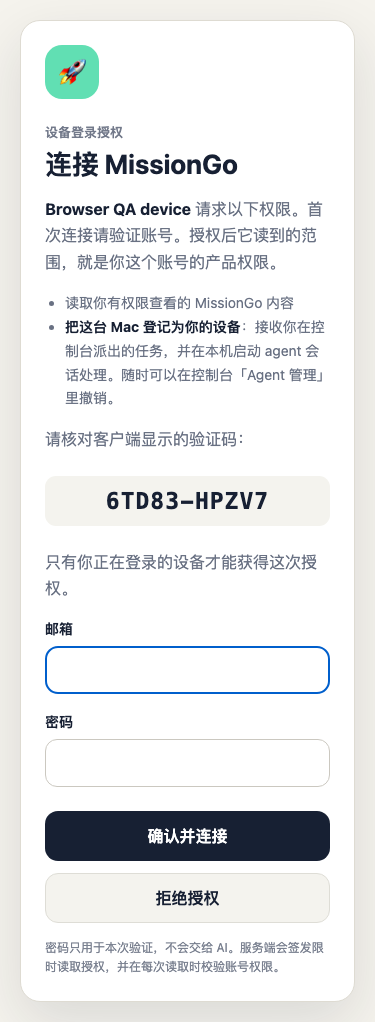
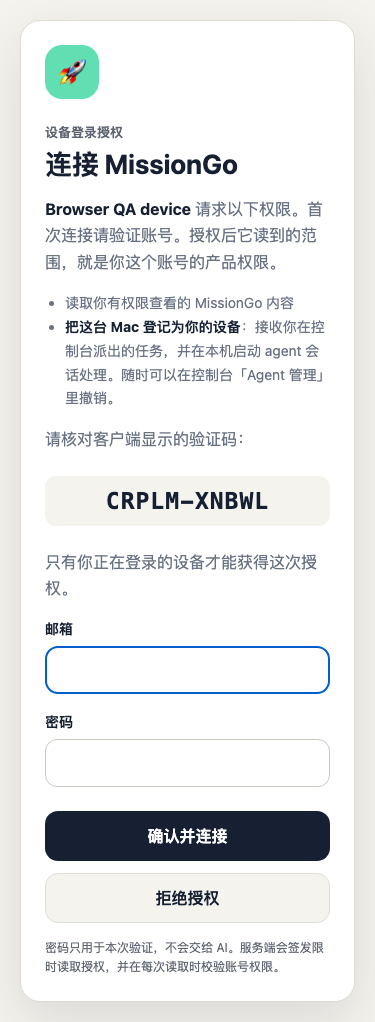
fix: AND-275 meet OAuth page text contrast requirements

Changed region(s): [[0.528, 0.4853, 0.704, 0.5157], [0.2933, 0.4853, 0.4693, 0.5157], [0.176, 0.1213, 0.3227, 0.1517]]

diff --git a/services/server/src/app.ts b/services/server/src/app.ts
@@ -911,7 +911,7 @@ export function buildApp(options: BuildAppOptions = {}): FastifyInstance {
     app.get("/oauth/login.css", async (_request, reply) => reply
       .header("cache-control", "public, max-age=3600")
       .type("text/css; charset=utf-8")
-      .send(`:root{--surface-sunken:#f4f3ee;--ink:#172033;--line:#deddd6;--text-2xl:23px;--radius-md:11px}*{box-sizing:border-box}body{margin:0;min-height:100vh;display:grid;place-items:center;background:#f5f3ed;color:#172033;font-family:system-ui,-apple-system,"PingFang SC",sans-serif;padding:20px}.card{width:min(100%,440px);background:#fff;border:1px solid #dedbd2;border-radius:24px;padding:32px;box-shadow:0 20px 55px rgba(23,32,51,.12)}.mark{display:grid;place-items:center;width:54px;height:54px;border-radius:17px;background:#61dfb3;font-size:27px}.eyebrow{margin:24px 0 8px;color:#72798a;font-size:13px;font-weight:700}.title{margin:0;font-size:30px;line-height:1.15}.copy{color:#697183;line-height:1.65}.scopes{margin:0 0 4px;padding-left:20px;color:#697183;line-height:1.7;font-size:14px}.scopes strong{color:#172033}.client{font-weight:700;color:#172033}.error{padding:11px 13px;border-radius:12px;background:#fff0f0;color:#ad2e2e;font-size:14px}label{display:block;margin:18px 0 7px;font-size:14px;font-weight:700}input{width:100%;height:48px;border:1px solid #cbc8c0;border-radius:12px;padding:0 13px;font:inherit}button{width:100%;height:50px;margin-top:24px;border:0;border-radius:13px;background:#172033;color:#fff;font:inherit;font-weight:750;cursor:pointer}.device-code{font:700 var(--text-2xl) ui-monospace,monospace;letter-spacing:1px;white-space:nowrap;text-align:center;padding:12px;border-radius:var(--radius-md);background:var(--surface-sunken)}button.secondary{background:var(--surface-sunken);color:var(--ink);border:1px solid var(--line);margin-top:12px}.note{margin:16px 0 0;color:#7a8190;font-size:12px;line-height:1.55}@media(max-width:520px){.card{padding:24px;border-radius:20px}.title{font-size:27px}}`));
+      .send(`:root{--muted-soft:#5f6570;--surface-sunken:#f4f3ee;--ink:#172033;--line:#deddd6;--text-2xl:23px;--radius-md:11px}*{box-sizing:border-box}body{margin:0;min-height:100vh;display:grid;place-items:center;background:#f5f3ed;color:#172033;font-family:system-ui,-apple-system,"PingFang SC",sans-serif;padding:20px}.card{width:min(100%,440px);background:#fff;border:1px solid #dedbd2;border-radius:24px;padding:32px;box-shadow:0 20px 55px rgba(23,32,51,.12)}.mark{display:grid;place-items:center;width:54px;height:54px;border-radius:17px;background:#61dfb3;font-size:27px}.eyebrow{margin:24px 0 8px;color:var(--muted-soft);font-size:13px;font-weight:700}.title{margin:0;font-size:30px;line-height:1.15}.copy{color:#697183;line-height:1.65}.scopes{margin:0 0 4px;padding-left:20px;color:#697183;line-height:1.7;font-size:14px}.scopes strong{color:#172033}.client{font-weight:700;color:#172033}.error{padding:11px 13px;border-radius:12px;background:#fff0f0;color:#ad2e2e;font-size:14px}label{display:block;margin:18px 0 7px;font-size:14px;font-weight:700}input{width:100%;height:48px;border:1px solid #cbc8c0;border-radius:12px;padding:0 13px;font:inherit}button{width:100%;height:50px;margin-top:24px;border:0;border-radius:13px;background:#172033;color:#fff;font:inherit;font-weight:750;cursor:pointer}.device-code{font:700 var(--text-2xl) ui-monospace,monospace;letter-spacing:1px;white-space:nowrap;text-align:center;padding:12px;border-radius:var(--radius-md);background:var(--surface-sunken)}button.secondary{background:var(--surface-sunken);color:var(--ink);border:1px solid var(--line);margin-top:12px}.note{margin:16px 0 0;color:var(--muted-soft);font-size:12px;line-height:1.55}@media(max-width:520px){.card{padding:24px;border-radius:20px}.title{font-size:27px}}`));
 
     app.get("/.well-known/oauth-protected-resource/mcp", async (_request, reply) => reply
       .header("cache-control", "public, max-age=300")

diff --git a/docs/review-evidence/AND-275-274/README.md b/docs/review-evidence/AND-275-274/README.md
@@ -13,7 +13,7 @@ Playwright 通过内存测试应用的响应访问授权页。以下图片分别
 
 [手机完整页面](phone-full.png)和[桌面完整页面](desktop-full.png)补充展示滚动区下方内容；验证码均来自独立测试请求。
 
-已验证两个视口没有横向溢出、网页按钮不小于 44×44、验证码不换行；批准后停留在服务端结果页，拒绝授权无需输入密码。新增页面样式使用现有设计令牌，样式检查基线没有增加。
+已验证两个视口没有横向溢出、网页按钮不小于 44×44、文字不小于 11px、渲染文字最低对比度约 4.89:1、验证码不换行；批准后停留在服务端结果页，拒绝授权无需输入密码。新增页面样式使用现有设计令牌，样式检查基线没有增加。原有页眉与页脚辅助文字改为 `--muted-soft`，白底对比度约 5.9:1。
 
 ## macOS 登录界面
 
